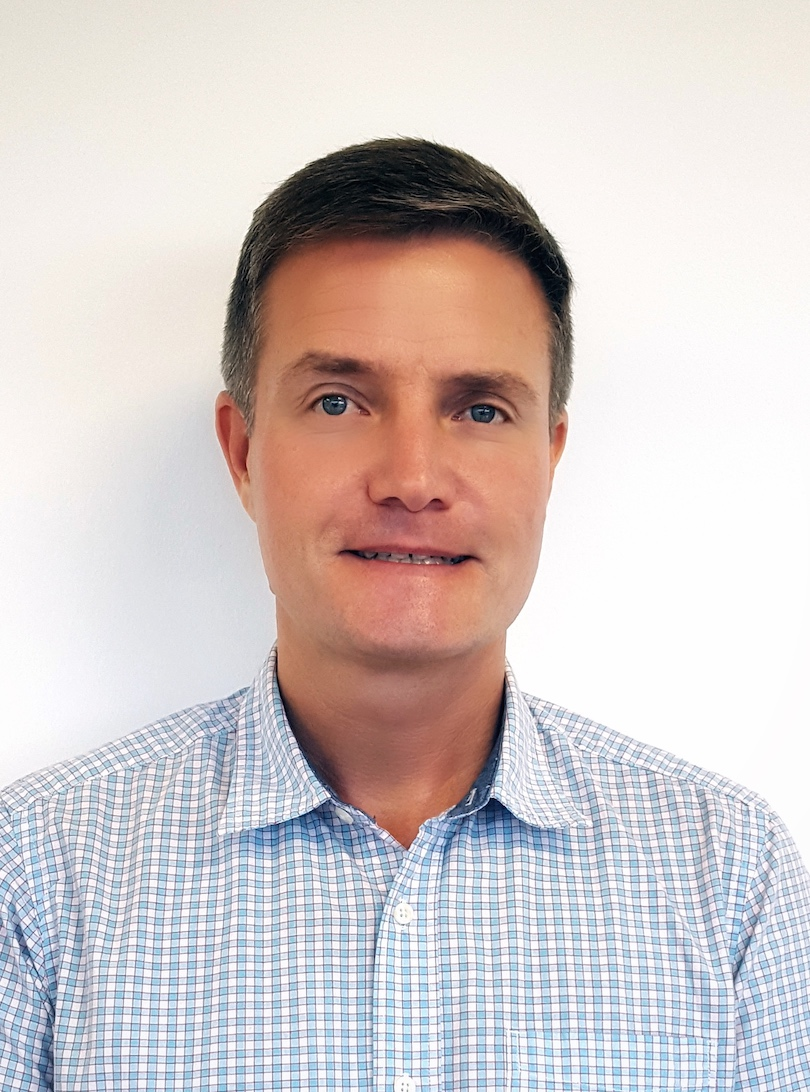
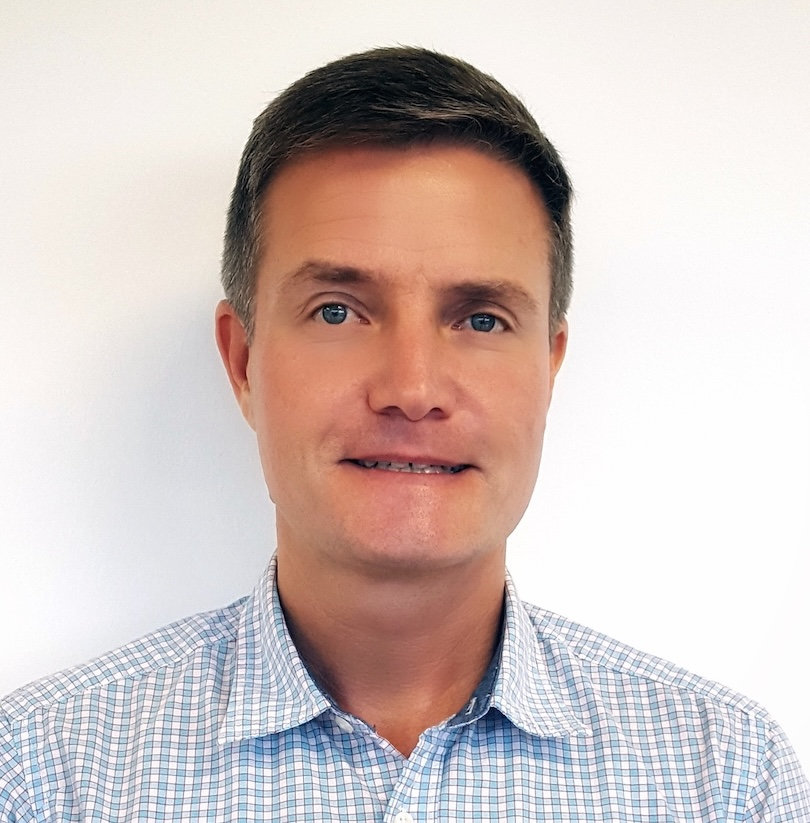
Press release: add chairs and advisors names to About section

diff --git a/index.html b/index.html
@@ -6,7 +6,7 @@
     <meta name="viewport" content="width=device-width, initial-scale=1.0" />
     <title>CVPR 2026 Compute Reporting</title>
     <meta name="description" content="Interactive analysis of compute resources, geography, and affiliation patterns from CVPR 2026 submissions."/>
-    <script type="module" crossorigin src="/cvpr2026/assets/index-CzQwxAz_.js"></script>
+    <script type="module" crossorigin src="/cvpr2026/assets/index-2-MIcgtd.js"></script>
     <link rel="stylesheet" crossorigin href="/cvpr2026/assets/index-BL3PmEe-.css">
   </head>
   <body>